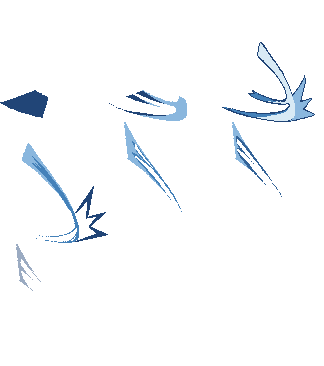
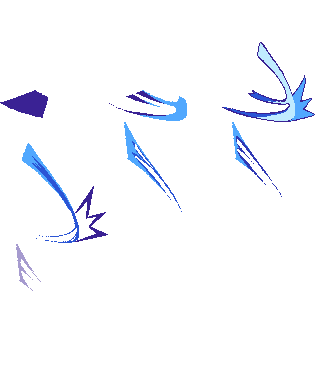
Đòn C VFX chậm lại; A/B đổi màu đồng bộ với C

diff --git a/game/index.html b/game/index.html
@@ -1880,7 +1880,7 @@ function comboFx(step,ang){/* VFX bản mẫu (PixelLab, gói tách lớp, tông
  /* Vệt chém: bộ Slashes (Frostwindz) đổi sang bảng màu game; khung lớn nhất của vệt trùng khung trúng */
  if(step===0)later(Math.max(0,at-0.02),()=>go(vok('wx_slash')?'wx_slash':'zs3',0.34,0,1.9,0.35,{dx:34*sc,dy:-62*sc,ang:tilt}),'h');
  else if(step===1)later(Math.max(0,at-0.16),()=>go('zs2',0.38,0,1.3,0,{ang:tilt}),'h');
- else{/* C = một cú quét → một elip → thu thế + mờ dần. Không còn slash zs1 độc lập; elip chỉ sống 0,5 s (tắt trước hết recovery 0,8 s), hai lớp cùng thời điểm và cùng thời gian */later(Math.max(0,at-0.24),()=>{go('k5c_behind',0.5,1,1.35,0.2);go('k5c_front',0.5,0,1.35,0.2)},'h')}}
+ else{/* C = một cú quét → một elip → thu thế + mờ dần. Không còn slash zs1 độc lập; elip chỉ sống 0,5 s (tắt trước hết recovery 0,8 s), hai lớp cùng thời điểm và cùng thời gian */later(Math.max(0,at-0.4),()=>{go('k5c_behind',0.72,1,1.35,0.2);go('k5c_front',0.72,0,1.35,0.2)},'h')}}
 function finishSwordCut(dt){
  const cut=P.swordCut;
  if(!cut)return;
